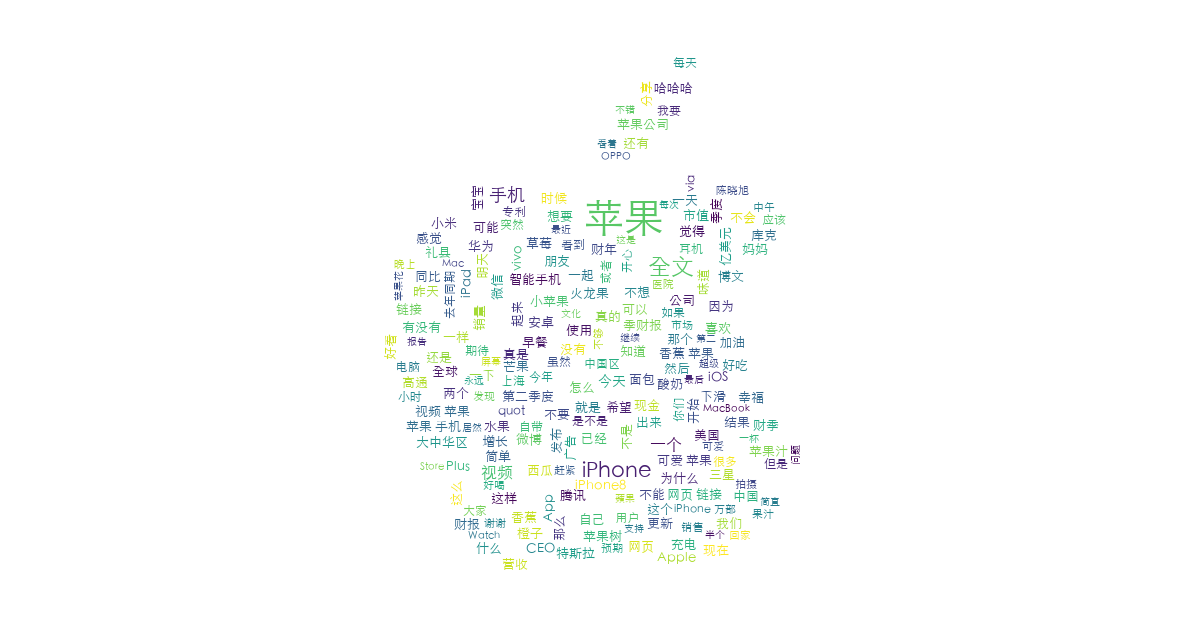
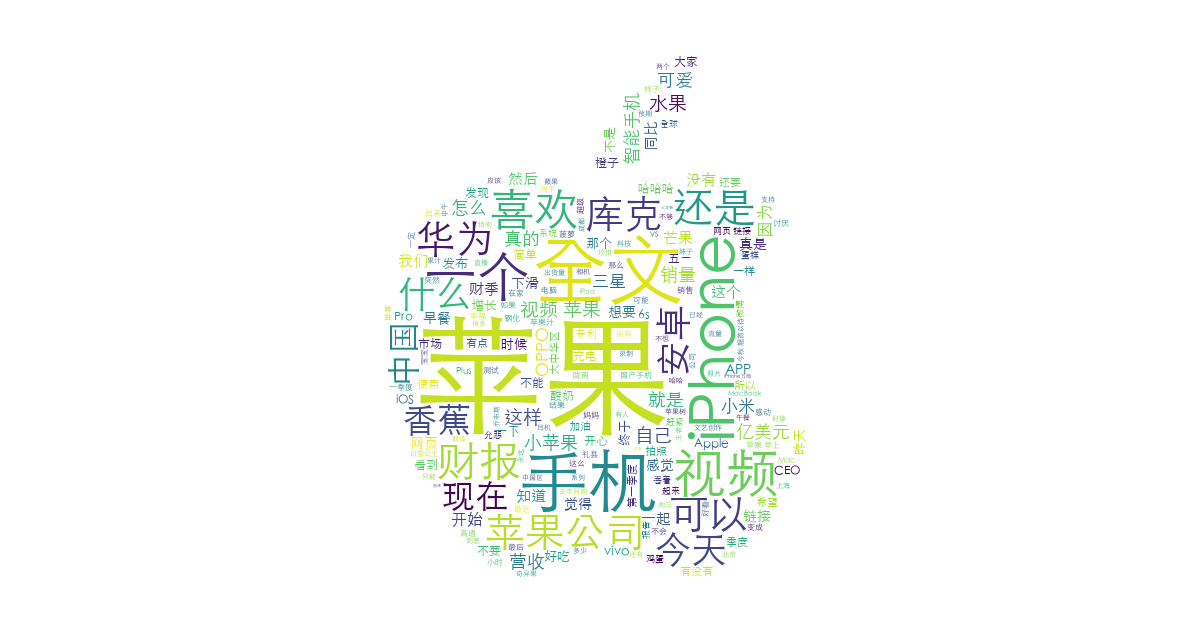
add image

Changed region(s): [[0.3083, 0.2714, 0.6783, 0.9349], [0.4933, 0.0905, 0.5858, 0.2714]]

diff --git a/weibo_search.py b/weibo_search.py
@@ -84,9 +84,7 @@ def gen_img(texts, img_file):
     wc = WordCloud(
         background_color='white',
         mask=image_coloring,
-        font_path='/Library/Fonts/STHeiti Light.ttc',
-        max_font_size=40,
-        random_state=42
+        font_path='/Library/Fonts/STHeiti Light.ttc'
     )
     wc.generate(data)
 
